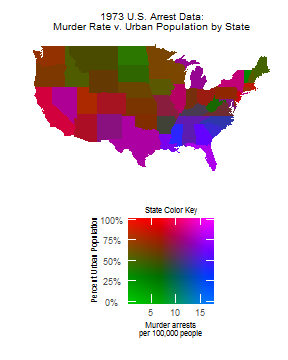
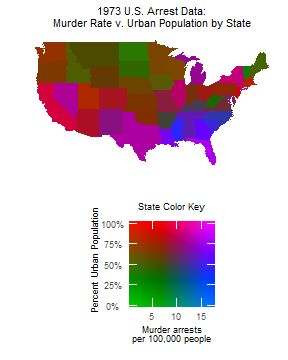
advance to v 0.0.0.9001, add news.md, update readme to include news

Changed region(s): [[0.0938, 0.0, 0.9375, 0.4889], [0.3125, 0.55, 0.75, 0.9778]]

diff --git a/readme.md b/readme.md
@@ -1,17 +1,8 @@
 [![BuildStatus](https://travis-ci.org/wmurphyrd/colorplaner.svg?branch=master)](https://travis-ci.org/wmurphyrd/colorplaner)
 
+
+
 # colorplaner
-
-To install:
-
-
-```r
-devtools::install_github("wmurphyrd/colorplaner")
-```
-
-
-
-Branch `internalize`: removes dependencies on internal objects in `ggplot2` and passes R CMD check without notes
 
 
 
@@ -40,6 +31,27 @@ When Y is held constant, remaining color space is a U-V *plane* with corners of 
 
 ![Holding Y constant at 25% yields this U-V color plane](figure/colorplane-concept-1.png)
 
+
+## Installation
+
+To install:
+
+
+```r
+devtools::install_github("wmurphyrd/colorplaner")
+```
+
+#### Known Issues and Incomplete Features
+* Cannot alter title and axis label positions in guide_colorplane (#2)
+* Large list of dependencies and namespace attachments inherited from colorscience package (#4)
+* Colors render incorrectly when discrete variables assigned to color/colour/fill (#1) 
+
+#### Version 0.0.0.9001
+* Removed all dependencies on unexported objects from ggplot2
+
+#### Version 0.0.0.9000
+* Adds `scale_color_colorplane`, `scale_fill_colorplane`, and `guide_colorplane` extensions to ggplot2
+
 ## Usage
 
 To implement color plane mapping in a `ggplot`, simply create aesthetic mappings to `color` and `color2` or `fill` and `fill2` and add the corresponding color plane scale to the plot. The corresponding guide is added by default. 
@@ -52,7 +64,7 @@ ggplot(mtcars, aes(x = wt, y = mpg, color = disp, color2 = hp)) +
   scale_color_colorplane() 
 ```
 
-![plot of chunk colorplane-basics](figure/colorplane-basics-1.png)
+![](figure/colorplane-basics-1.png)
 
 ```r
 if(require(mapproj)) {
@@ -66,7 +78,7 @@ if(require(mapproj)) {
 }
 ```
 
-![plot of chunk colorplane-basics](figure/colorplane-basics-2.png)
+![](figure/colorplane-basics-2.png)
 
 ## Settings
 
@@ -98,7 +110,7 @@ if(require(mapproj)) {
           panel.background = element_blank(),
           axis.text = element_blank(),
           axis.ticks = element_blank(),
-          text = element_text(size = 8)) +
+          text = element_text(size = 9)) +
     labs(x = "", y = "", title = paste("1973 U.S. Arrest Data:\nMurder Rate",
                                        "v. Urban Population by State")) +
     guides(fill = guide_colorplane(
@@ -108,5 +120,5 @@ if(require(mapproj)) {
 }
 ```
 
-![plot of chunk colorplane-advanced](figure/colorplane-advanced-1.png)
+![](figure/colorplane-advanced-1.png)
 

diff --git a/NEWS.md b/NEWS.md
@@ -1,0 +1,10 @@
+# Known Issues and Incomplete Features
+* Cannot alter title and axis label positions in guide_colorplane (#2)
+* Large list of dependencies and namespace attachments inherited from colorscience package (#4)
+* Colors render incorrectly when discrete variables assigned to color/colour/fill (#1) 
+
+# Version 0.0.0.9001
+* Removed all dependencies on unexported objects from ggplot2
+
+# Version 0.0.0.9000
+* Adds `scale_color_colorplane`, `scale_fill_colorplane`, and `guide_colorplane` extensions to ggplot2
